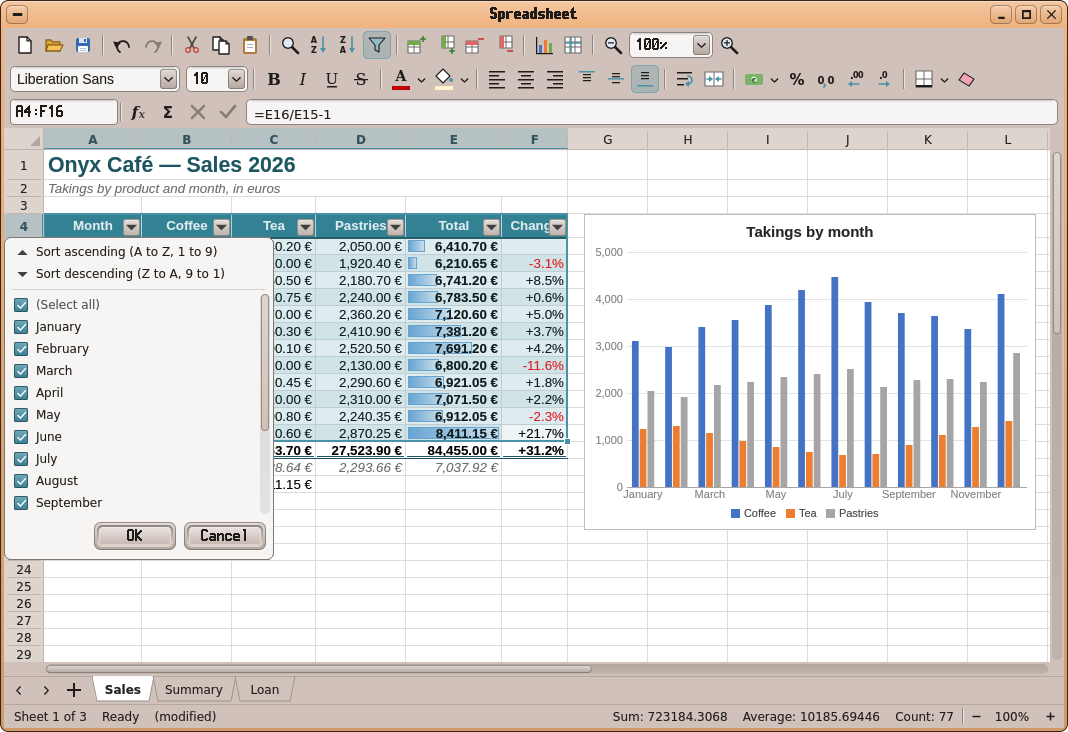
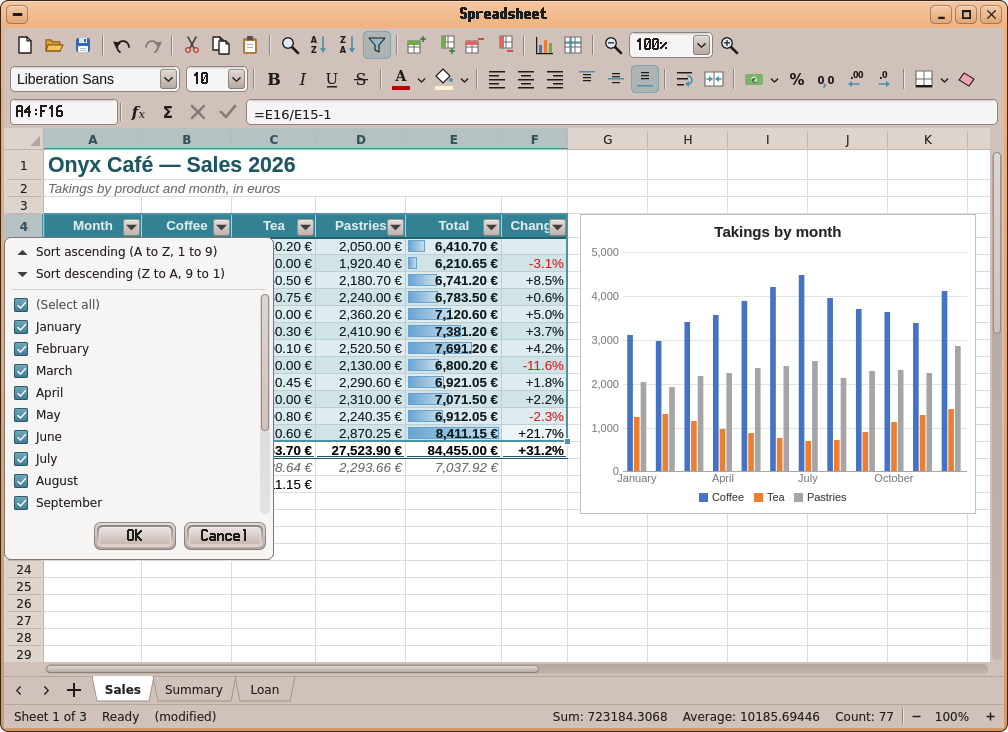
Docs: an app's window at most 1024 x 768 (a null canvas overwrites the kernel); elfrun
The developer guide and the kapi table say it: kapi_create_window returns 0 over
1024 x 768 or without memory, and an app at EL1 drawing into a null canvas writes
over the kernel; wtk's Root checks it. The simulator's new "quit" step and window
limit. HANDOFF: how the spreadsheet's freeze was found, the kernel follow-ups.
Screenshots of the spreadsheet at its new width.

tools/tests/desktop_sim/elfrun.{cpp,sh}: an app's own Pi binary (newlib and all)
run on the PC under qemu-aarch64 with the simulator's kapi.

Claude-Session: https://claude.ai/code/session_01HNkQXkWmCNHsSExBnbTMLo

diff --git a/tools/tests/desktop_sim/elfrun.cpp b/tools/tests/desktop_sim/elfrun.cpp
@@ -1,0 +1,49 @@
+// elfrun.cpp -- run an Onyx app's own Pi binary (its ELF, newlib and all) on Linux AArch64 (under
+// qemu-aarch64), its kapi table the desktop simulator's (fakekapi.cpp, linked in: the table mapped at
+// KAPI_TABLE_VA by its static constructor). The ELF's PT_LOAD segments are mapped at their addresses,
+// a stack of the app.txt's size gets a guard page below it, then the app's _start runs.
+//
+//   elfrun APP.elf [STACK_BYTES]        (SIM=... and the other simulator variables as usual)
+//
+#include <elf.h>
+#include <stdio.h>
+#include <stdlib.h>
+#include <string.h>
+#include <stdint.h>
+#include <sys/mman.h>
+
+int main (int argc, char **argv)
+{
+	if (argc < 2) { fprintf (stderr, "elfrun APP.elf [STACK_BYTES]\n"); return 2; }
+	size_t stack = argc > 2 ? strtoul (argv[2], 0, 0) : (size_t) 4 << 20;
+	FILE *f = fopen (argv[1], "rb");
+	if (!f) { perror (argv[1]); return 2; }
+	fseek (f, 0, SEEK_END); long n = ftell (f); fseek (f, 0, SEEK_SET);
+	unsigned char *buf = (unsigned char *) malloc (n);
+	if (fread (buf, 1, n, f) != (size_t) n) { perror ("read"); return 2; }
+	fclose (f);
+	Elf64_Ehdr *eh = (Elf64_Ehdr *) buf;
+	if (memcmp (eh->e_ident, ELFMAG, SELFMAG) || eh->e_machine != EM_AARCH64) { fprintf (stderr, "not an AArch64 ELF\n"); return 2; }
+	Elf64_Phdr *ph = (Elf64_Phdr *) (buf + eh->e_phoff);
+	for (int i = 0; i < eh->e_phnum; i++)
+	{
+		if (ph[i].p_type != PT_LOAD) continue;
+		uintptr_t a = ph[i].p_vaddr & ~(uintptr_t) 0xFFFF, e = (ph[i].p_vaddr + ph[i].p_memsz + 0xFFFF) & ~(uintptr_t) 0xFFFF;
+		void *m = mmap ((void *) a, e - a, PROT_READ | PROT_WRITE | PROT_EXEC, MAP_PRIVATE | MAP_ANONYMOUS | MAP_FIXED_NOREPLACE, -1, 0);
+		if (m != (void *) a) { fprintf (stderr, "elfrun: cannot map %lx..%lx\n", (unsigned long) a, (unsigned long) e); return 2; }
+		memcpy ((void *) ph[i].p_vaddr, buf + ph[i].p_offset, ph[i].p_filesz);
+		fprintf (stderr, "elfrun: segment %lx..%lx (file %lx)\n", (unsigned long) ph[i].p_vaddr,
+			 (unsigned long) (ph[i].p_vaddr + ph[i].p_memsz), (unsigned long) ph[i].p_filesz);
+	}
+	__builtin___clear_cache ((char *) 0x200000000, (char *) 0x200000000 + (64 << 20));
+	// the stack, a 64 KB guard below it (an overflow faults there instead of going on)
+	char *st = (char *) mmap (0, stack + 65536, PROT_READ | PROT_WRITE, MAP_PRIVATE | MAP_ANONYMOUS, -1, 0);
+	if (st == MAP_FAILED) { perror ("stack"); return 2; }
+	mprotect (st, 65536, PROT_NONE);
+	uintptr_t top = ((uintptr_t) st + 65536 + stack) & ~(uintptr_t) 15;
+	fprintf (stderr, "elfrun: stack %lx..%lx (%zu KB), entry %lx\n", (unsigned long) (st + 65536), (unsigned long) top,
+		 stack >> 10, (unsigned long) eh->e_entry);
+	uintptr_t entry = eh->e_entry;
+	__asm__ volatile ("mov sp, %0\n\tblr %1" :: "r" (top), "r" (entry) : "memory", "x30");
+	return 0;
+}

diff --git a/docs/02-KERNEL-INTERNALS.md b/docs/02-KERNEL-INTERNALS.md
@@ -551,7 +551,7 @@ workspaces (virtual desktops: `KAPI_WIN_OFFDESK`, `KAPI_WIN_DESK`, `KAPI_DESK_MA
 
 | Category | Examples |
 |---|---|
-| Windowing | `create_window(_ex)`, `resize_window` (the client size shown, ≤ the canvas made at creation; the frame — `OuterW/H`, the chrome copies' size — follows it, and the app redraws its chrome: `wk_decorate_window`), `move_window`, `present`, `exit`. Window flags: `WIN_FLAG_BORDERLESS`, `WIN_FLAG_BACKMOST` (desktop, bottom band), `WIN_FLAG_TOPMOST` (the menu bar: top band, never the active app nor the key target; at y=0 it reserves its smallest logical height — `CWindowManager::TopInset()` — so auto-placement and title-bar drags stay below it), `WIN_FLAG_TRANSPARENT` (client blitted with the magenta key), `WIN_FLAG_SYSTEM` (a shell component — menu bar, notifications, panel, app list: skipped by `list_windows`, so never in the taskbar; a plain flag bit, no ABI change). The z-order is three bands: backmost < normal < topmost (`Add`/`RaiseLocked` keep them). The **key target** is the frontmost non-topmost window; the **active app** (menus, chrome highlight uses the key target) is the frontmost window that is neither topmost, backmost nor borderless. |
+| Windowing | `create_window(_ex)` (the canvas; **0** when the client area is over 1024 × 768 or memory is short — an app must check it: at EL1, a null canvas drawn into is the kernel's memory at address 0), `resize_window` (the client size shown, ≤ the canvas made at creation; the frame — `OuterW/H`, the chrome copies' size — follows it, and the app redraws its chrome: `wk_decorate_window`), `move_window`, `present`, `exit`. Window flags: `WIN_FLAG_BORDERLESS`, `WIN_FLAG_BACKMOST` (desktop, bottom band), `WIN_FLAG_TOPMOST` (the menu bar: top band, never the active app nor the key target; at y=0 it reserves its smallest logical height — `CWindowManager::TopInset()` — so auto-placement and title-bar drags stay below it), `WIN_FLAG_TRANSPARENT` (client blitted with the magenta key), `WIN_FLAG_SYSTEM` (a shell component — menu bar, notifications, panel, app list: skipped by `list_windows`, so never in the taskbar; a plain flag bit, no ABI change). The z-order is three bands: backmost < normal < topmost (`Add`/`RaiseLocked` keep them). The **key target** is the frontmost non-topmost window; the **active app** (menus, chrome highlight uses the key target) is the frontmost window that is neither topmost, backmost nor borderless. |
 | Menu bar (v39) | `set_menu(spec, handler)` stores the app's menu spec (≤ 2 KB; lines `M<title>`, `I<id>\t<label>\t<shortcut>`, `-`) + a `GUI_EVENT_MENU` (14) handler on its `CWindow`; `get_menu(buf, cap, title, tcap)` returns the **active app**'s spec + title and a serial that changes with the active window or its menu (0 = none); `menu_command(id)` queues `GUI_EVENT_MENU(id)` to the active window (`MENU_QUIT` = -1 → `RequestExit`, like the close box). Used by `menubar` + `wtk::Menu`. |
 | Launch/management | `launch`, `toggle_app`, `raise_app`, `exec`, `kill`, `kill_pid` |
 | Enumeration | `list_apps`, `list_windows`, `list_tasks`, `list_procs`, `get_datetime` |

diff --git a/docs/03-DEVELOPER-GUIDE.md b/docs/03-DEVELOPER-GUIDE.md
@@ -1101,7 +1101,13 @@ Key points:
 - **`kapi_create_window(w, h, title)`** returns a pointer to the **canvas** (pixel buffer of
   `0x00RRGGBB`, width `w`). The app draws directly into it (no per-pixel
   call). The variant `kapi_create_window_ex(x, y, w, h, title, flags)` is for explicit
-  placement and `WIN_FLAG_BORDERLESS`.
+  placement and `WIN_FLAG_BORDERLESS`. The client area is **at most 1024 × 768** (the screen:
+  `width=1024 height=768` in `cmdline.txt`), frame not counted — keep a window within 1000 × 700
+  or so, as Writer and Paint: over the limit (or out of memory) the call returns **0**. **Check
+  it**: an app runs at EL1 with the kernel's identity mapping, so a null canvas is the kernel's
+  own memory at address 0 — drawing into it overwrites the kernel and the whole Pi freezes with
+  nothing in `kmsg` (the Spreadsheet's first 1060-pixel window did exactly that). wtk's `Root`
+  checks it: the app stops with `wtk: the window could not be made` in `kmsg`.
 - **Kernel widgets**: `kapi_add_button/label/checkbox/textbox/progress/slider/textarea/`
   `scrollbar_v/scrollbar_h/icon(...)` return an `unsigned long` handle. Manipulate them
   with `kapi_widget_set_text/get_text`, `get_checked`, `get/set_value`, `set_rect`
@@ -1400,7 +1406,13 @@ barwidth = 40
   The script's steps: `wait`, `down / up / move / wheel X Y`, `rdown / rup`, `key CODE`, `mods N`
   (the modifiers held from then on: 1 Ctrl, 2 Shift, 4 Alt — Shift+arrows select...), `menu N`
   (the app's menu item N: its items counted from 0 in the order the app adds them), `winctl N`,
-  `dump FILE`, `exit`. Writer's and the Spreadsheet's are built with the apps' FreeType (the same
+  `dump FILE`, `quit` (the window closed: the app's loop ends and what it does before leaving
+  `main` runs — `exit` stops the process on the spot). Like the kernel, the simulator makes no
+  window over 1024 × 768 (`kapi_create_window` returns 0).
+  **The Pi's own binary on the PC**: `sh tools/tests/desktop_sim/elfrun.sh <app> [stack bytes]`
+  (the same `SIM` script) runs `user/<app>.elf` — newlib and the code the Pi's compiler made —
+  under `qemu-aarch64` with the simulator's kapi (`elfrun.cpp`: the ELF's segments at their
+  addresses, the stack with a guard page); needs `g++-aarch64-linux-gnu` and `qemu-user`. Writer's and the Spreadsheet's are built with the apps' FreeType (the same
   sources, for the PC).
   (`nintendoemu.png` and `arkanoid.png` — an emulator, a BASIC program — still come from the
   older, simulated renderer [`tools/screenshot/render.py`](../tools/screenshot/render.py).)

diff --git a/docs/HANDOFF.md b/docs/HANDOFF.md
@@ -242,6 +242,20 @@ Asked by the user ("un peu plus poussé comme gcalc": read as LibreOffice Calc /
   names' nor the rules' (rows / columns inserted or deleted move all of them); comments; data
   validation (drop-down lists); pivot tables; `.ods` writing; printing / PDF; the € in wtk's
   text boxes.
+- **The freeze at its first start on the Pi (fixed, `73a1eb05`).** Its window was 1060 pixels
+  wide; the kernel makes none over 1024 × 768 (`CreateWindow`, `sys/kapi.cpp`) and returns a
+  null canvas, which wtk drew into: an app runs at EL1 with the kernel's identity mapping, so the
+  first frame overwrote the kernel at address 0 — the Pi froze, nothing in `kmsg`, no
+  `lastcrash.txt` (a Pi without RAM above 3 GB keeps no record, and a panic halts core 1 too), the
+  watchdog restarted it. Now 1000 pixels; wtk's `Root` stops an app the kernel gives no window;
+  the desktop simulator refuses windows over 1024 × 768 as the kernel does. How it was found, and
+  worth reusing: the Pi binary itself run under **qemu-aarch64** with the simulator's kapi (a
+  loader mapping the ELF's segments, the kapi table at `KAPI_TABLE_VA`, a 4 MB stack with a guard
+  page), valgrind and ASan on the simulator build (for ASan, a copy of `kern/kapi_abi.h` with
+  `KAPI_TABLE_VA` moved out of its shadow). **Kernel follow-ups worth doing**: unmap the first
+  pages of the identity map in the apps' address spaces (a null pointer would fault instead of
+  writing over the kernel), and stop a faulting app instead of the kernel panic (any app fault
+  takes the whole Pi down today).
 
 ## The GameCube on the Pi -- the TEV renderer (the black screen: fixed; next: the speed)
 
